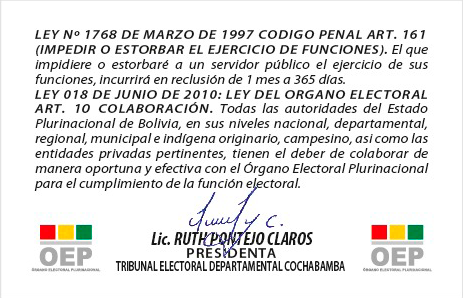
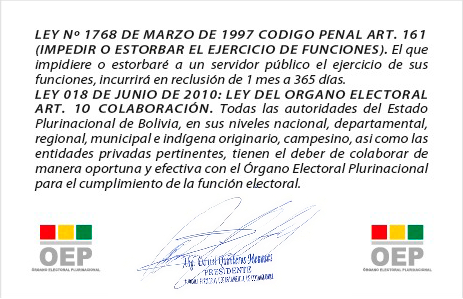
Actualizar credencial

Changed region(s): [[0.2419, 0.6321, 0.7559, 0.9632], [0.635, 0.6923, 0.6652, 0.7224]]

diff --git a/src/components/molecules/CustomCredencial.jsx b/src/components/molecules/CustomCredencial.jsx
@@ -98,7 +98,7 @@ const CustomCredencial = ({ persona, lado }) => {
                     color:"white"
                 }}
             >
-                {"Válido ELECCIONES SUBNACIONALES 2026"}
+                {"Válido Elecciones Subnacionales 2026"}
             </Typography>
         </>
       )}

diff --git a/src/components/molecules/CustomCredencialBlanco.jsx b/src/components/molecules/CustomCredencialBlanco.jsx
@@ -125,7 +125,7 @@ const CustomCredencialBlanco = ({ persona, lado }) => {
               p: 0,
             }}
           >
-            {"Válido ELECCIONES SUBNACIONALES 2026"}
+            {"Válido Elecciones Subnacionales 2026"}
           </Typography>
         </>
       )}

diff --git a/src/components/molecules/CustomCredencialQR.jsx b/src/components/molecules/CustomCredencialQR.jsx
@@ -82,7 +82,7 @@ const CustomCredencialQR = ({ persona, lado }) => {
               p: 0,
             }}
           >
-            {"Válido ELECCIONES SUBNACIONALES 2026"}
+            {"Válido Elecciones Subnacionales 2026"}
           </Typography>
         </>
       )}
